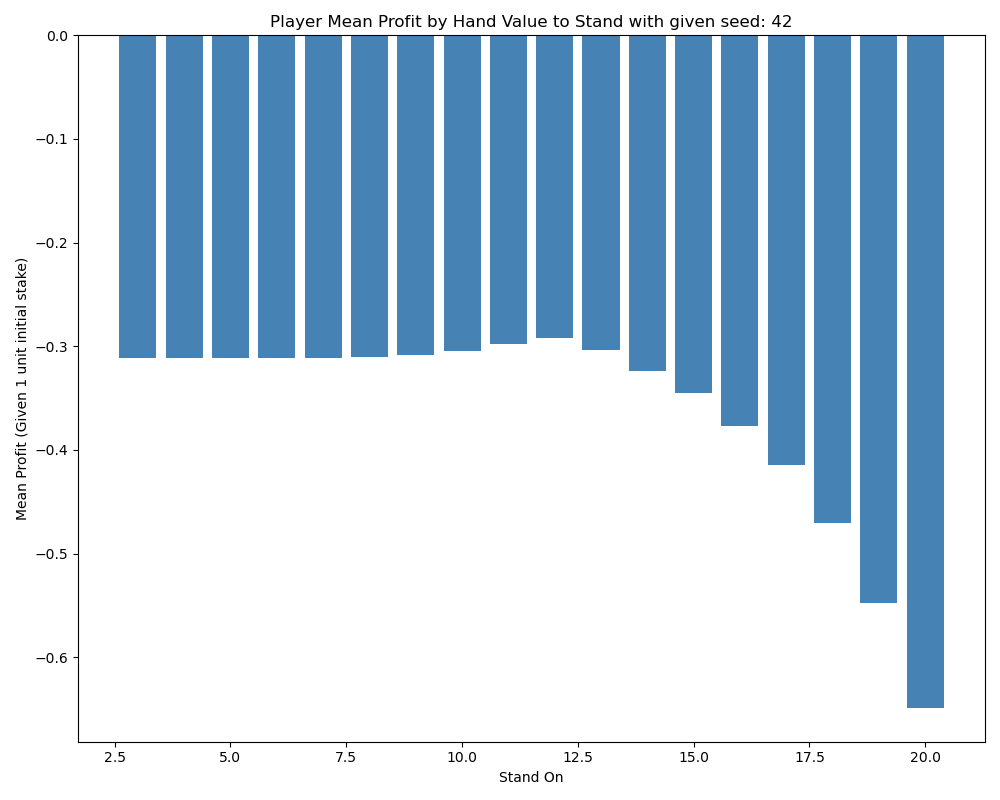
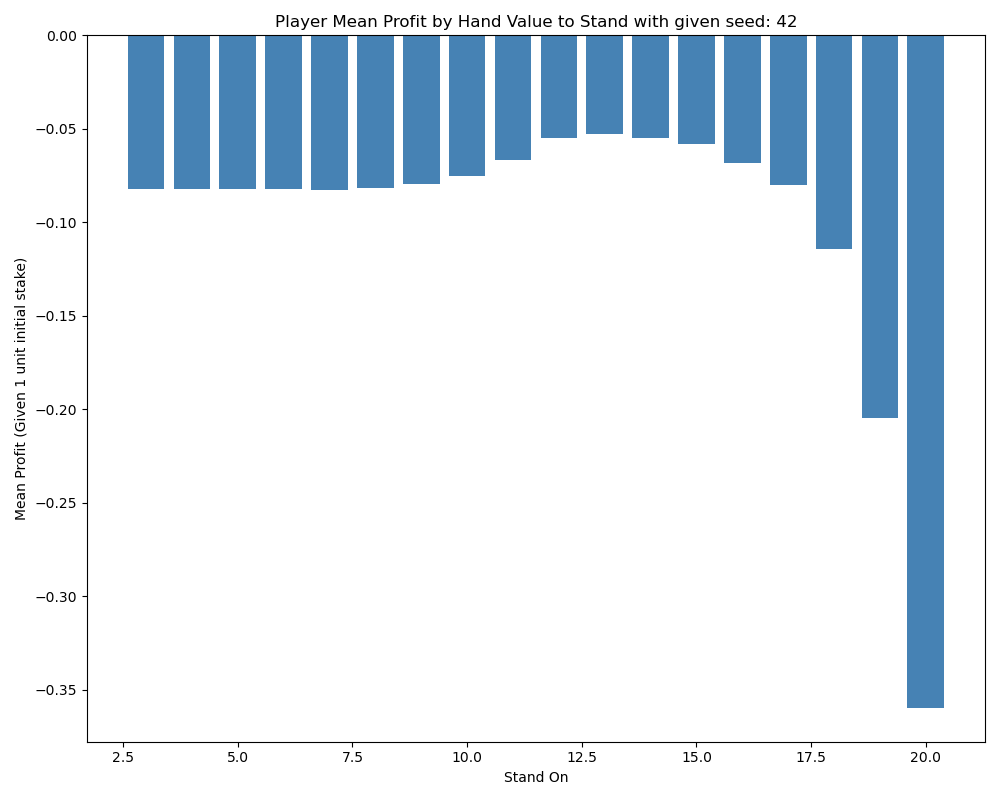
debugged strategyHeat.py & ran sims with new code

diff --git a/strategyHeat.py b/strategyHeat.py
@@ -2,7 +2,7 @@ import seaborn as sns
 import matplotlib.pyplot as plt
 import numpy as np
 import pandas as pd
-from blackjack import player_should_hit
+from blackJack import player_should_hit
 STAND_ON = 12 
 
 #Labels
